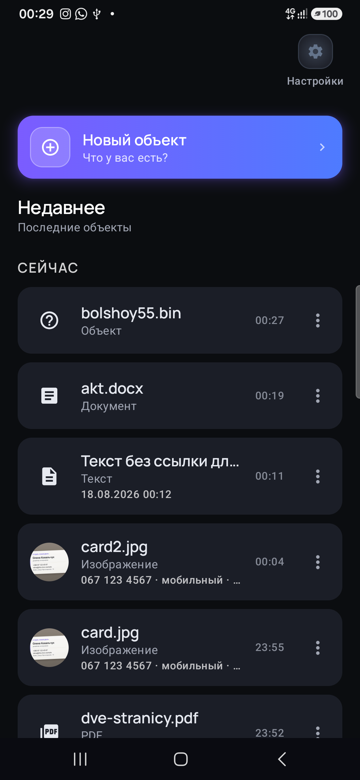
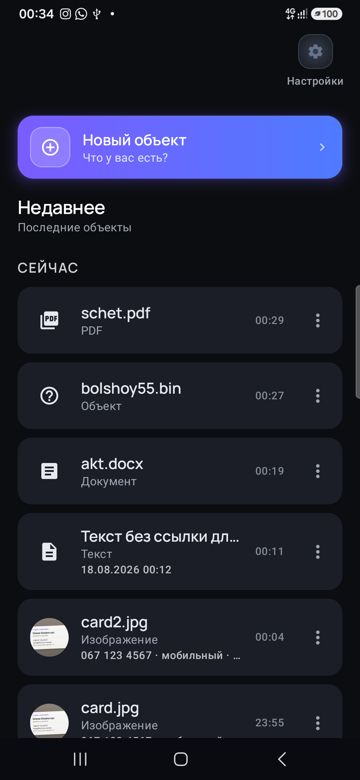
docs: #967 repair — AND-085 PASS (продолжение работы с принятым, PC2) (#967)

diff --git a/docs/audits/live-review-967-coverage.md b/docs/audits/live-review-967-coverage.md
@@ -255,7 +255,7 @@ NO DIFFERENTIATING FACTOR
 | AND-082 | Android | SourcePickerActivity | SourcePickerScreen | телефон | — | отказ в разрешении | отказ | — | Permissions | офлайн | отказ выдан за отсутствие данных | нет перехода, причина названа | PASS | телефон владельца A34, APK 0.3.0 debug, main bead432; 17.08.2026 22:50. Разрешения на место отозваны (`pm revoke ACCESS_FINE/COARSE_LOCATION`, состояние «отказано насовсем») → «Новый объект» → «Взять место»: экран **«Доступ выключен насовсем. „Взять место“ без него не начнёт. Система больше не спросит — включить можно только в настройках Point»** + кнопка «Открыть настройки Point» и «Не сейчас». Причина названа, выход дан, объекта нет: граф до/после — те же 2 узла (rukopis.jpg и его ребёнок), новых узлов нет (evidence/2026-08-17-s4/AND-082-deny.png, AND-082-not-now-graph.txt). Отказ не выдан за отсутствие данных. Разрешения возвращены ‖ ПРЕЖДЕ: БЫЛО PASS · мета-аудит 17.08: FALSE PASS — «причина названа» опровергнута соседним доказательством AND-081 («слова человеку не сказано»); графа нет ‖  | — |
 | AND-083 | Android | ReceiveActivity | ReceiveScreen | телефон | любой | ожидание объекта | открытие | — | ReceiveFileSource | онлайн | ожидание без объяснения | N/A | FAIL | экран приёма не открывается вовсе: «Принять файл по ссылке» три раза из трёх ответило «Приём не открылся · Сервер Point не ответил», хотя POST /u/open с другого устройства в те же минуты отвечает 200, а пропуск самого телефона живой — сразу после отказов «На компьютер» прошло | #1077 |
 | AND-084 | Android | ReceiveActivity | ReceiveScreen | телефон | любой | приём идёт | ожидание | — | /mbx/{device_id} | онлайн | молчание дольше секунды | N/A | NEEDS INVESTIGATION | состояние «приём идёт» не наблюдать, пока не открывается сам приём (#1077) | — |
-| AND-085 | Android | ReceiveActivity | ReceiveScreen | телефон | любой | объект принят | продолжение работы с ним | — | ObjectStore | онлайн | пришедшее знание потеряно (PC2) | принятое → тот же объект со знанием | — | БЫЛО PASS · мета-аудит 17.08: FALSE PASS — текст доказательства — экран записи голоса (дословно AND-087); приём объекта не наблюдался, по AND-083 экран приёма не открывается ‖ прежнее доказательство: эмулятор 14.08: «Записать голос — Запишет Point, ничего больше не нужно», кнопка «Записать» с подписью «Point расшифрует запись словами» и «Отмена» | — |
+| AND-085 | Android | ReceiveActivity | ReceiveScreen | телефон | любой | объект принят | продолжение работы с ним | — | ObjectStore | онлайн | пришедшее знание потеряно (PC2) | принятое → тот же объект со знанием | PASS | ПК → телефон, 18.08.2026 00:35–00:40 (Point для ПК 0.3.0 + A34 + сервер). На ПК принят and085.txt («сумма 1500 грн, тел. +380501234599»), плашка «Пришло: and085.txt», знание собрано; «На телефон» (00:38:03) → плашка «Компьютер · 1» → «Забрать и открыть здесь»: объект открылся на телефоне со **знанием, приехавшим с ПК** (телефон 050 123 4599, сумма 1500 грн, дата — 4 сущности, meta 21). Продолжение работы: «Понять» на принятом объекте → «Стало понятнее», +сущность (meta 22), сводка «Объект для AND-085: приём с ПК». Пришедшее знание не потеряно (PC2), работа продолжается на второй стороне (evidence/2026-08-17-s4/AND-085-pc-before.txt, AND-085-fetch-graph.txt, AND-085-continue-graph.txt, AND-085-continue.png). Побочно: «1500» продублировано строкой «Объект · прочитано · возможно» (#1100), «или: 18.08.2026 00:35» (#1011) | — |
 | AND-086 | Android | ReceiveActivity | ReceiveScreen | телефон | любой | приём сорвался | повторная попытка | — | /mbx/{device_id} | обрыв сети | полуобъект в графе | либо целый объект, либо ничего | NEEDS INVESTIGATION | сорвавшийся приём и повтор не наблюдать по той же причине (#1077) | — |
 | AND-087 | Android | RecordAudioActivity | RecordScreen | телефон | AUDIO | готов к записи | открытие | — | VoiceSource | офлайн | непонятно, что произойдёт | N/A | PASS | экран записи объясняет, что произойдёт: «Записать голос · Запишет Point, ничего больше не нужно», кнопка «Записать» с подписью «Point расшифрует запись словами» и «Отмена» | — |
 | AND-088 | Android | RecordAudioActivity | RecordScreen | телефон | AUDIO | идёт запись | остановка | — | VoiceSource | офлайн | запись потеряна при остановке | запись → узел объекта | PASS | ⚠ UNPROVEN (NO GRAPH BEFORE/AFTER: остановка не выполнена, узел записи не показан — только вид во время записи) ‖ во время записи виден счётчик времени (0:07), сказано, что делать («Идёт запись — остановите, когда закончите»), что получится («получится звукозапись») и есть «Отмена» | — |
@@ -769,17 +769,17 @@ NO DIFFERENTIATING FACTOR
 | Desktop UI | #972 | 40 | 29 | 28 | 1 | 9 | 1 | 0 | 0 | 1 | 38 | 95,0 % | 70,0 % |
 | Server / Web UI | #979 | 65 | 47 | 18 | 29 | 0 | 1 | 3 | 0 | 14 | 47 | 72,3 % | 27,7 % |
 | Entry Points | #970 | 29 | 5 | 4 | 1 | 7 | 1 | 13 | 2 | 3 | 12 | 41,4 % | 13,8 % |
-| Input/Object Types | #971 | 43 | 19 | 13 | 6 | 22 | 0 | 1 | 0 | 1 | 41 | 95,3 % | 30,2 % |
+| Input/Object Types | #971 | 43 | 19 | 13 | 6 | 23 | 0 | 1 | 0 | 0 | 42 | 97,7 % | 30,2 % |
 | Graph Transitions | #974, #975, #976, #984 | 121 | 70 | 21 | 49 | 44 | 1 | 4 | 0 | 2 | 114 | 94,2 % | 17,4 % |
 | Realizer Paths | #978 | 25 | 17 | 4 | 13 | 4 | 0 | 4 | 0 | 0 | 21 | 84,0 % | 16,0 % |
 | Failure Modes | #977 | 34 | 31 | 19 | 12 | 3 | 0 | 0 | 0 | 0 | 34 | 100,0 % | 55,9 % |
 | Phone ↔ PC | #973, #981 | 34 | 16 | 6 | 10 | 12 | 0 | 6 | 0 | 0 | 28 | 82,4 % | 17,6 % |
-| Drop | #980 | 20 | 10 | 5 | 5 | 5 | 3 | 1 | 0 | 1 | 15 | 75,0 % | 25,0 % |
+| Drop | #980 | 20 | 10 | 5 | 5 | 6 | 3 | 1 | 0 | 0 | 16 | 80,0 % | 25,0 % |
 | History/Lifetime | #982 | 18 | 11 | 9 | 2 | 6 | 1 | 0 | 0 | 0 | 17 | 94,4 % | 50,0 % |
 | Settings | #983 | 16 | 11 | 3 | 8 | 3 | 0 | 2 | 0 | 0 | 14 | 87,5 % | 18,8 % |
 | Constitution | #985 | 20 | 8 | 1 | 7 | 12 | 0 | 0 | 0 | 0 | 20 | 100,0 % | 5,0 % |
 | ADR/RFC | #986 | 13 | 11 | 4 | 7 | 2 | 0 | 0 | 0 | 0 | 13 | 100,0 % | 30,8 % |
-| **TOTAL** | #968–#986 | **577** | 352 | **175** | 177 | 152 | 8 | 41 | 2 | 24 | **504** | **87,3 %** | **30,3 %** |
+| **TOTAL** | #968–#986 | **577** | 352 | **175** | 177 | 154 | 8 | 41 | 2 | 22 | **506** | **87,7 %** | **30,3 %** |
 
 ## Equivalence Decisions
 
@@ -936,14 +936,14 @@ NO DIFFERENTIATING FACTOR
 ```
 APPLICABLE:            577
 PASS:                  352   (PROVEN 175 · UNPROVEN 177)
-FAIL:                  152
+FAIL:                  154
 BLOCKED:               8
 NEEDS INVESTIGATION:   41
 N/A:                   2
-НЕ ПРОХОДИЛОСЬ (—):    24
+НЕ ПРОХОДИЛОСЬ (—):    22
 
-TESTED            = PASS + FAIL         = 504
-COVERAGE (статусы) = TESTED / APPLICABLE = 87,3 %
+TESTED            = PASS + FAIL         = 506
+COVERAGE (статусы) = TESTED / APPLICABLE = 87,7 %
 PROVEN COVERAGE   = PROVEN PASS / APPLICABLE = 30,3 %
 ```
 
